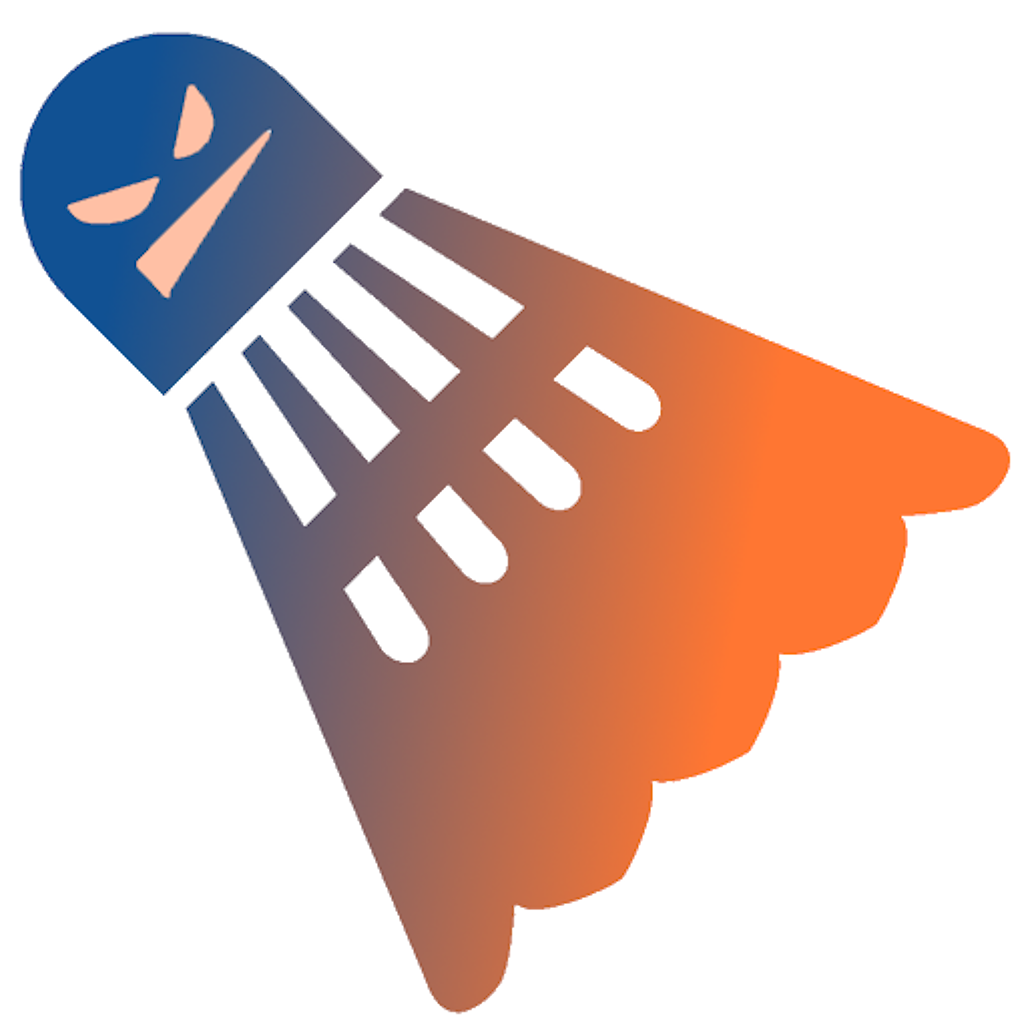
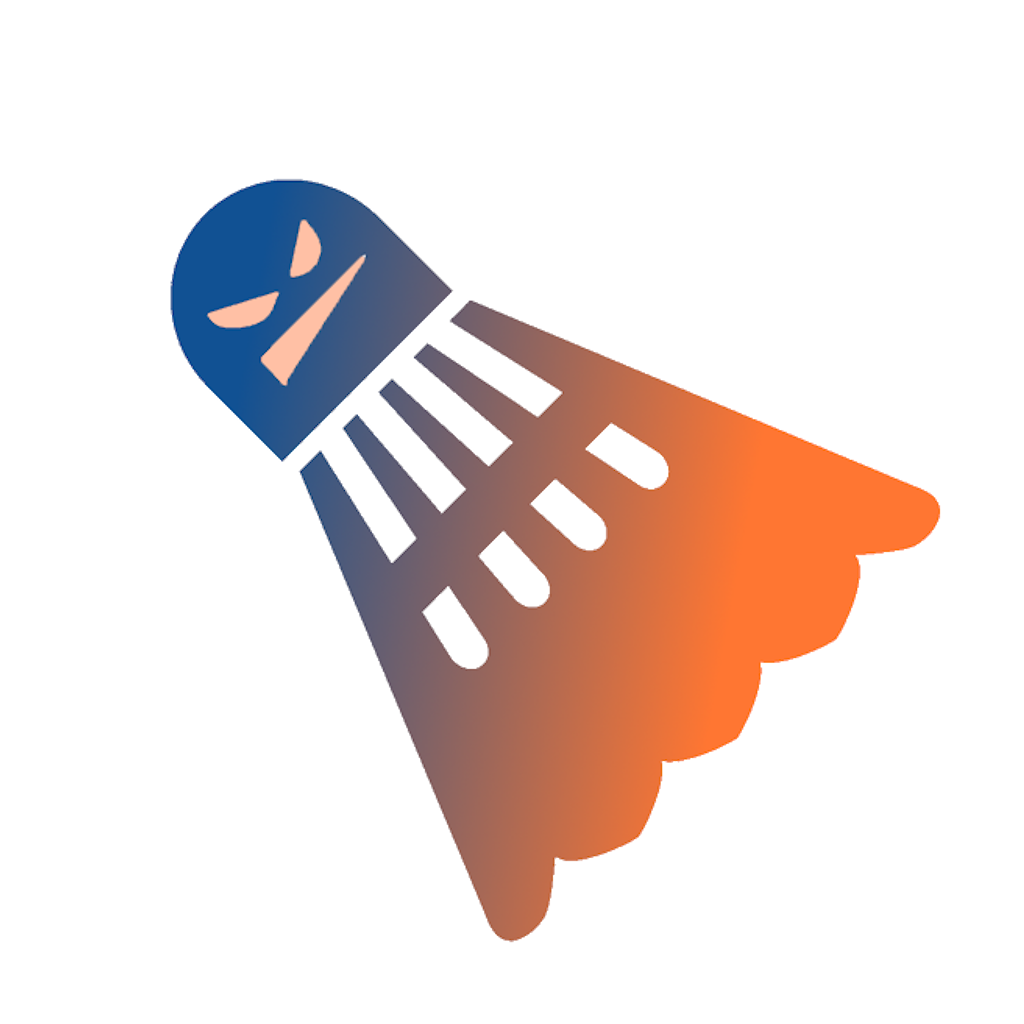
all sort of fixes
Icon was troncated on android
add score was crashing
added date to score (maybe useful later)
refresh main page on club change

Changed region(s): [[0.0, 0.0312, 1.0, 1.0], [0.625, 0.625, 0.8125, 0.8125]]

diff --git a/src/Screens/AddScore.js b/src/Screens/AddScore.js
@@ -42,15 +42,10 @@ function AddScoreScreen({ navigation }) {
     });
   }
 
-  const isSetValid = (a, b, setNumber) => {
-    if (isNaN(a) || isNaN(b)) {
-      Alert.alert("Erreur", `Erreur : Format de score incorrect...`);
-      return false;
-    }
+  const isSetOfficial = (a, b) => {
     const scoreA = Math.floor(a);
     const scoreB = Math.floor(b);
-
-    if (
+    return (
       (scoreA == 21 && scoreB < 20) ||
       (scoreB == 21 && scoreA < 20) ||
       (scoreA == 30 && scoreB == 29) ||
@@ -60,15 +55,71 @@ function AddScoreScreen({ navigation }) {
         scoreA <= 30 &&
         scoreB <= 30 &&
         Math.abs(scoreA - scoreB) == 2)
-    ) {
-      return true;
-    } else {
+    );
+  };
+
+  const isSetValid = (a, b, setNumber) => {
+    if (isNaN(a) || isNaN(b)) {
       Alert.alert(
         "Erreur",
-        "Erreur : Score set " + setNumber + " incorrect..."
+        `Erreur : Format de score incorrect pour le set` + setNumber + `...`
       );
       return false;
     }
+    const scoreA = Math.floor(a);
+    const scoreB = Math.floor(b);
+
+    return scoreA != scoreB;
+  };
+
+  const getTeamNote = (p1, p2) => {
+    const maxMmr = Math.max(p1.MMR, p2.MMR);
+    const minMmr = Math.min(p1.MMR, p2.MMR);
+    return Math.round(
+      (maxMmr - minMmr) / minMmr >= 0.4
+        ? (maxMmr * 1.5 + minMmr) / 2.5
+        : (maxMmr + 1.5 * minMmr) / 2.5
+    );
+  };
+
+  const getMmrGain = (
+    player1,
+    player2,
+    player3,
+    player4,
+    twosets,
+    ptsWinner,
+    ptsLooser
+  ) => {
+    //Notes
+    const noteA = getTeamNote(player1, player2);
+    const noteB = getTeamNote(player3, player4);
+    //Ecart
+    const lowMmrMoyen = Math.min(noteA, noteB);
+    const topMmrMoyen = Math.max(noteA, noteB);
+    const ecart = topMmrMoyen / lowMmrMoyen - 1;
+    //proba win
+    const probaWl = Math.max(0.01, 0.5 - ecart);
+    const probaWt = Math.min(0.99, 0.5 + ecart);
+    //gain
+    const gain = Math.max(25 * (noteA > noteB ? probaWt : probaWl), 1);
+    // bonuses
+    const bonus2sets = twosets ? 5 * (noteA > noteB ? probaWl : probaWt) : 0;
+    const bonusPts =
+      Math.min(Math.floor((ptsWinner - ptsLooser) / ptsLooser / 0.05), 5) *
+      (noteA > noteB ? probaWl : probaWt);
+    console.log("------");
+    /*console.log(noteA);
+    console.log(noteB);
+    console.log(lowMmrMoyen);
+    console.log(topMmrMoyen);
+    console.log(ecart);
+    console.log(probaWl);
+    console.log(probaWt);*/
+    console.log(gain);
+    console.log(bonus2sets);
+    console.log(bonusPts);
+    return Math.floor(gain + bonus2sets + bonusPts);
   };
 
   const validateGame = () => {
@@ -95,8 +146,12 @@ function AddScoreScreen({ navigation }) {
       return;
     }
     // check scores are valid
+    let scoreFede = true;
     if (!isSetValid(A1, B1, 1) || !isSetValid(A2, B2, 2)) {
       return;
+    }
+    if (!isSetOfficial(A1, B1) || !isSetOfficial(A2, B2)) {
+      scoreFede = false;
     }
 
     const a1 = Math.floor(A1);
@@ -112,6 +167,9 @@ function AddScoreScreen({ navigation }) {
       if (!isSetValid(A3, B3, 3)) {
         return;
       }
+      if (!isSetOfficial(A3, B3)) {
+        scoreFede = false;
+      }
       winner = a3 > b3 ? "A" : "B";
     } else {
       winner = v1;
@@ -120,18 +178,37 @@ function AddScoreScreen({ navigation }) {
     }
 
     // All is valid
-    const mmr = winner == "A" ? 50 : -50;
+    const scoreA = a1 + a2 + (isNaN(a3) ? 0 : a3);
+    const scoreB = b1 + b2 + (isNaN(b3) ? 0 : b3);
+    const mmrGain = getMmrGain(
+      player1,
+      player2,
+      player3,
+      player4,
+      v1 == v2,
+      winner == "A" ? scoreA : scoreB,
+      winner == "A" ? scoreB : scoreA
+    );
+    const mmr = winner == "A" ? mmrGain : -mmrGain;
+
+    //alert en cas de match pas fédé
+    const invalidMessage = scoreFede
+      ? ""
+      : "Attention : Au moins un des set n'est pas valide selon la fédé... \n \n";
 
     Alert.alert(
       "Partie valide",
-      "Victoire de l'équipe " +
+      invalidMessage +
+        "Victoire de l'équipe " +
         winner +
-        ". L'équipe gagnante va marquer " +
-        mmr +
-        " points, l'équipe perdante va perdre " +
-        mmr +
+        ".\n L'équipe " +
+        winner +
+        " va marquer " +
+        Math.abs(mmr) +
+        " points. \n L'autre équipe va perdre " +
+        Math.abs(mmr) +
         " points." +
-        "Confirmez vous ce résultat ?",
+        "\n Confirmez vous ce résultat ?",
       [
         {
           text: "Non",

diff --git a/src/Screens/Club.js b/src/Screens/Club.js
@@ -46,17 +46,22 @@ function Club({ navigation }) {
   const [club, setclub] = useState(defaultClub);
   const [pwd, setpwd] = useState("");
   const [clubChosen, setclubChosen] = useState(false);
+  let navigateBackTriggered = false;
 
-  const isClubValid = () => {
+  const NavigateBackIfClubValid = () => {
     if (!clubChosen) {
       alert("Selectionnez le club...");
       return false;
     } else {
       if (pwd == club.pwd) {
         storeAdmin("false");
+        navigateBackTriggered = true;
+        navigation.navigate("Acceuil");
         return true;
       } else if (pwd == club.adminpwd) {
         storeAdmin("true");
+        navigateBackTriggered = true;
+        navigation.navigate("Acceuil");
         return true;
       } else {
         alert("Mot de passe erroné...");
@@ -85,14 +90,13 @@ function Club({ navigation }) {
   React.useEffect(
     () =>
       navigation.addListener("beforeRemove", (e) => {
-        if (!isClubValid()) {
-          e.preventDefault();
-          return;
-        } else {
+        if (navigateBackTriggered) {
           navigation.dispatch(e.data.action);
         }
+        e.preventDefault();
+        NavigateBackIfClubValid();
       }),
-    [navigation, club, clubChosen, pwd]
+    [navigation, club, clubChosen, pwd, navigateBackTriggered]
   );
 
   return (
@@ -112,14 +116,7 @@ function Club({ navigation }) {
         onChangeText={ChangePwd}
       ></TextInput>
 
-      <View
-        onTouchStart={() => {
-          if (isClubValid()) {
-            navigation.pop();
-          }
-        }}
-        style={Styles.defaultButton}
-      >
+      <View onTouchStart={NavigateBackIfClubValid} style={Styles.defaultButton}>
         <Text style={Styles.defaultButtonContent}>Valider</Text>
       </View>
     </View>

diff --git a/src/Screens/Home.js b/src/Screens/Home.js
@@ -9,7 +9,6 @@ function HomeScreen({ navigation }) {
 
   const OnPageLoaded = () => {
     getClub().then((v) => {
-      console.log(v);
       if (v == "") {
         navigation.navigate("Choisissez votre club");
       } else {
@@ -17,7 +16,6 @@ function HomeScreen({ navigation }) {
       }
     });
     getAdmin().then((v) => {
-      console.log(v);
       if (v == "true") {
         setisAdmin(true);
       } else {

diff --git a/src/Services/WebService.js b/src/Services/WebService.js
@@ -42,6 +42,7 @@ export const addScore = (
       set2: { A: A2, B: B2 },
       set3: { A: A3, B: B3 },
     },
+    Date: new Date().toLocaleString(),
   };
 
   const newItemKey = push(child(ref(db), global.ClubPath + "/games")).key;
